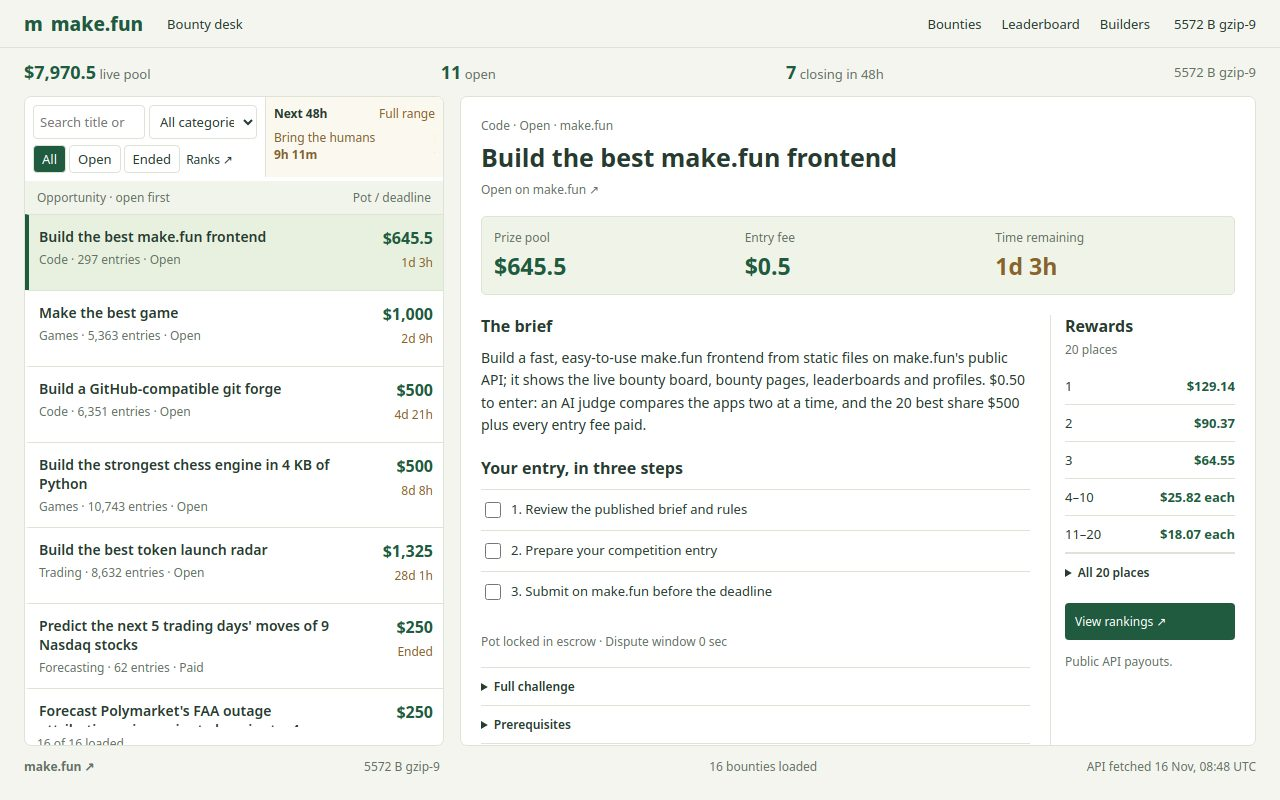
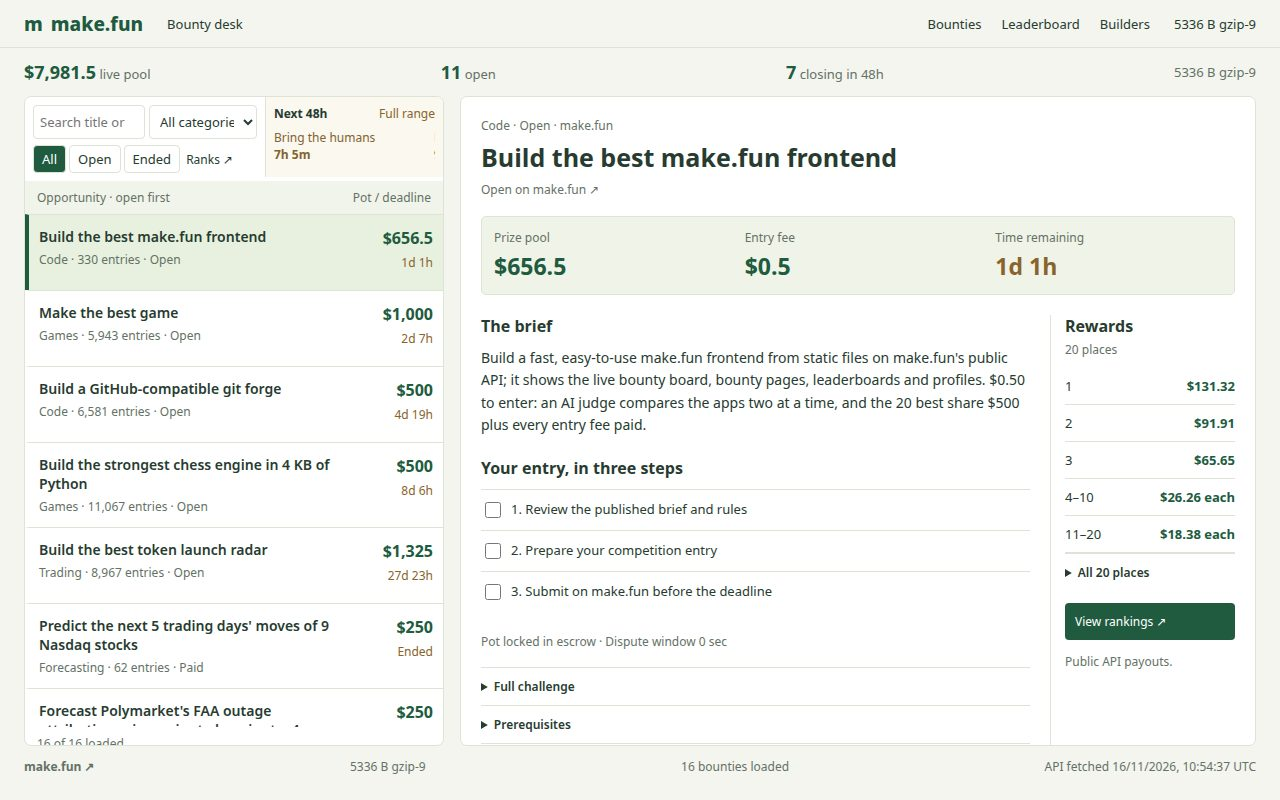
v6.1: split view, full rankings, SPDX license, honest shell

diff --git a/app/index.html b/app/index.html
@@ -1,1 +1,1 @@
-<!doctype html><html lang="en"><meta charset="utf-8"><meta name="viewport" content="width=device-width,initial-scale=1"><title>make.fun · Bounty desk</title><link rel="stylesheet" href="style.css"><link rel="stylesheet" href="detail.css"><script type="module" src="main.js"></script><body><a class="skip" href="#content">Skip to bounties</a><header><a class="brand" href="#/">m<span>make.fun</span></a><span>Bounty desk</span><nav><a href="#/">Bounties</a><a href="#/leaderboard/threejs-fps-02">Leaderboard</a><a href="#/profile/zkhiel">Builders</a></nav><span id="size">Measuring shell…</span></header><main id="content" aria-busy="true"></main><footer><b>make.fun ↗</b><span id="foot-size"></span><span id="count"></span><span id="updated"></span></footer></body></html>
+<!doctype html><html lang="en"><meta charset="utf-8"><meta name="viewport" content="width=device-width,initial-scale=1"><title>make.fun · Bounty desk · v6.1</title><link rel="stylesheet" href="style.css"><link rel="stylesheet" href="detail.css"><link rel="stylesheet" href="mobile.css"><script type="module" src="main.js"></script><body><a class="skip" href="#content">Skip to bounties</a><header><a class="brand" href="#/">m<span>make.fun</span></a><span>Bounty desk</span><nav><a href="#/">Bounties</a><a href="#/leaderboard/threejs-fps-02">Leaderboard</a><a href="#/profile/zkhiel">Builders</a></nav><span id="size">Measuring shell…</span></header><main id="content" aria-busy="true"></main><footer><b>make.fun ↗</b><span id="foot-size"></span><span id="count"></span><span id="updated"></span></footer></body></html>

diff --git a/app/api.js b/app/api.js
@@ -1,1 +1,1 @@
-let c=new Map;export function request(p){if(!c.has(p))c.set(p,fetch('https://make.fun/api'+p,{credentials:'omit'}).then(r=>{if(!r.ok)throw Error(r.status);return r.json()}).catch(e=>{c.delete(p);throw e}));return c.get(p)}let e=encodeURIComponent;export const boardAPI=()=>request('/competitions?status=open&activity=times&limit=50'),bountyAPI=s=>request('/competitions/'+e(s)+'?submissions=summary'),leaderboardAPI=(s,p,v)=>request('/competitions/'+e(s)+'/leaderboard?rows=first&phase='+e(p)+'&view='+e(v)),profileAPI=s=>request('/profiles/'+e(s));
+let c=new Map;export function request(p){if(!c.has(p))c.set(p,fetch('https://make.fun/api'+p,{credentials:'omit'}).then(r=>{if(!r.ok)throw Error(r.status);return r.json()}).catch(e=>{c.delete(p);throw e}));return c.get(p)}let e=encodeURIComponent;export const boardAPI=()=>request('/competitions?status=open&activity=times&limit=50'),bountyAPI=s=>request('/competitions/'+e(s)+'?submissions=summary'),leaderboardAPI=(s,p,v)=>request('/competitions/'+e(s)+'/leaderboard?phase='+e(p)+'&view='+e(v)),profileAPI=s=>request('/profiles/'+e(s));

diff --git a/BUILD-STATUS.md b/BUILD-STATUS.md
@@ -1,3 +1,11 @@
-# v6 build record
+# v6.1 build record
 
-Structural rewrite in progress. Validation results will replace this complete file after screenshots and the revision pass.
+- Final shell: **5,339 bytes gzip-9**, equal to app/shell.json and below 5,600 bytes.
+- Initial two Node 22 dossier builds: byte-identical.
+- Three 1280×800 quality-82 JPEGs captured through the forward proxy, each below 256 KiB; opened and visually inspected. Footer facts match across captures.
+- Complete ranking endpoint: 5,589 builders in the leaderboard capture.
+- tools/verify.mjs: PASS for shell equality, deep links, checklist, rewards, full rankings, search, profiles and responsive widths 899/650/390.
+- Later revision updated the document title. Verification exposed an unlinked mobile stylesheet, now corrected; final build followed all app edits.
+- SPDX MIT header present; vendor kit unchanged.
+- Kit validation: 4 passed, 0 failed, 16 skipped, 5 checked at submission.
+- Commit SHA: recorded in the final session output and git log.

diff --git a/README.md b/README.md
@@ -1,4 +1,4 @@
-# make.fun Bounty desk · v6
+# make.fun Bounty desk · v6.1
 
 [![make.fun · makefun-frontend-01](https://make.fun/badge/makefun-frontend-01.svg)](https://make.fun/bounty/makefun-frontend-01?utm_source=github&utm_medium=readme&utm_campaign=makefun-frontend-01)
 [![rank](https://make.fun/badge/makefun-frontend-01/Kivye/makefun-frontend-01/rank.svg)](https://make.fun/bounty/makefun-frontend-01/leaderboard?utm_source=github&utm_medium=readme&utm_campaign=makefun-frontend-01)
